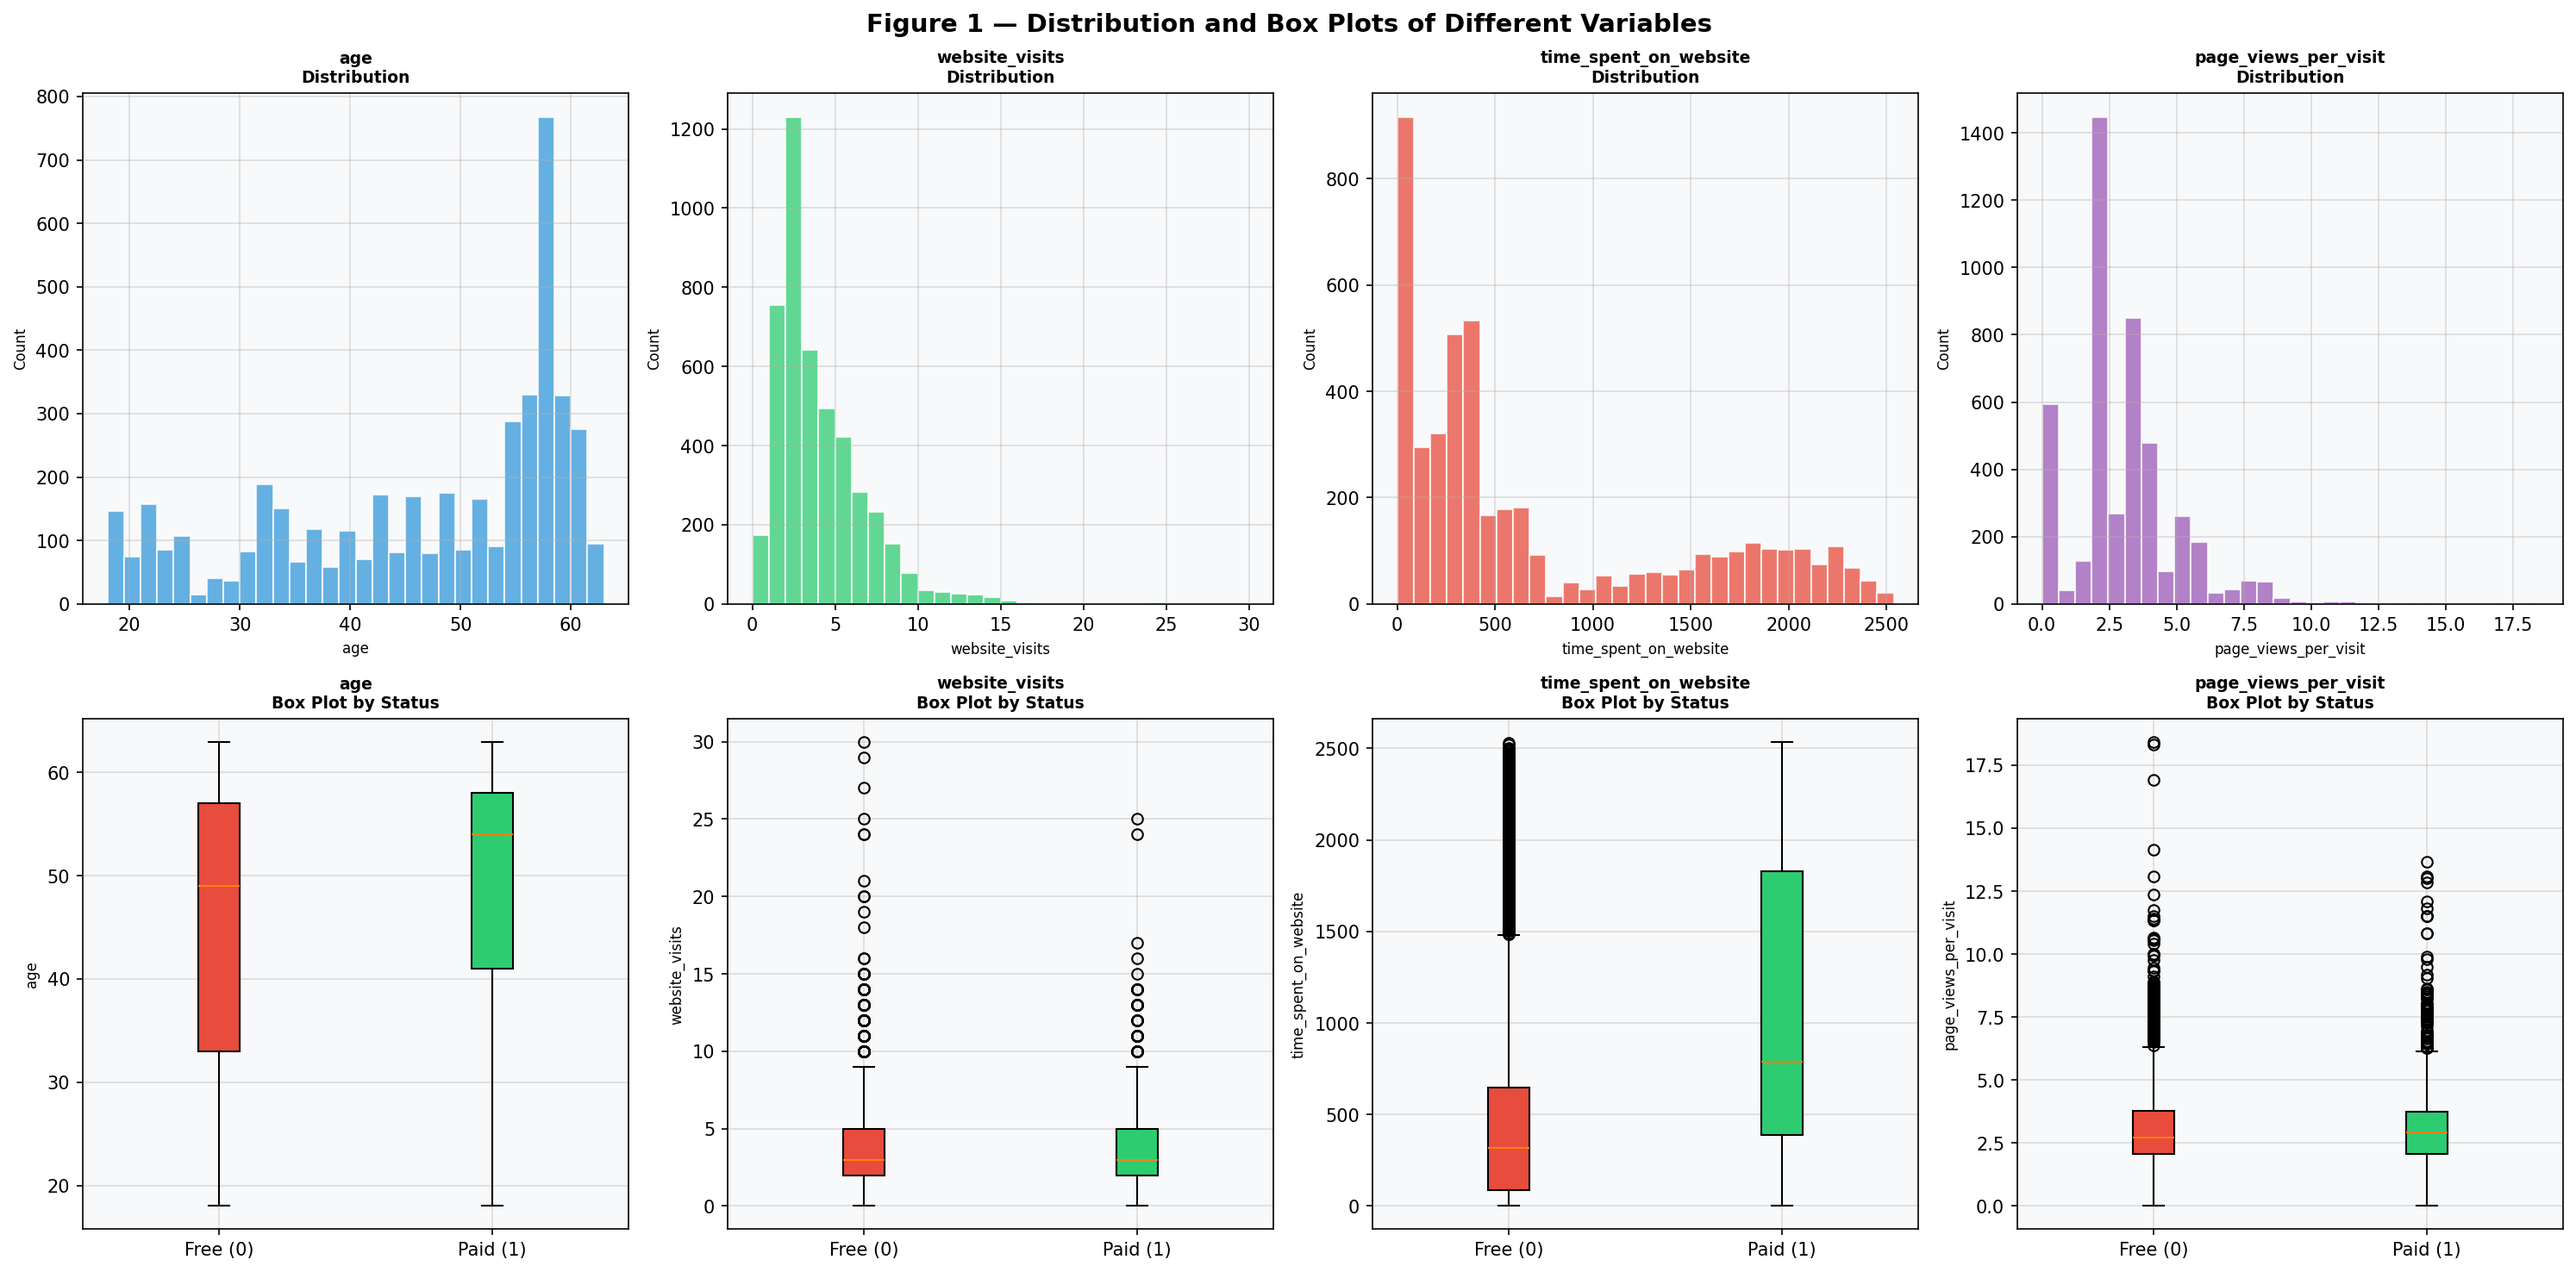
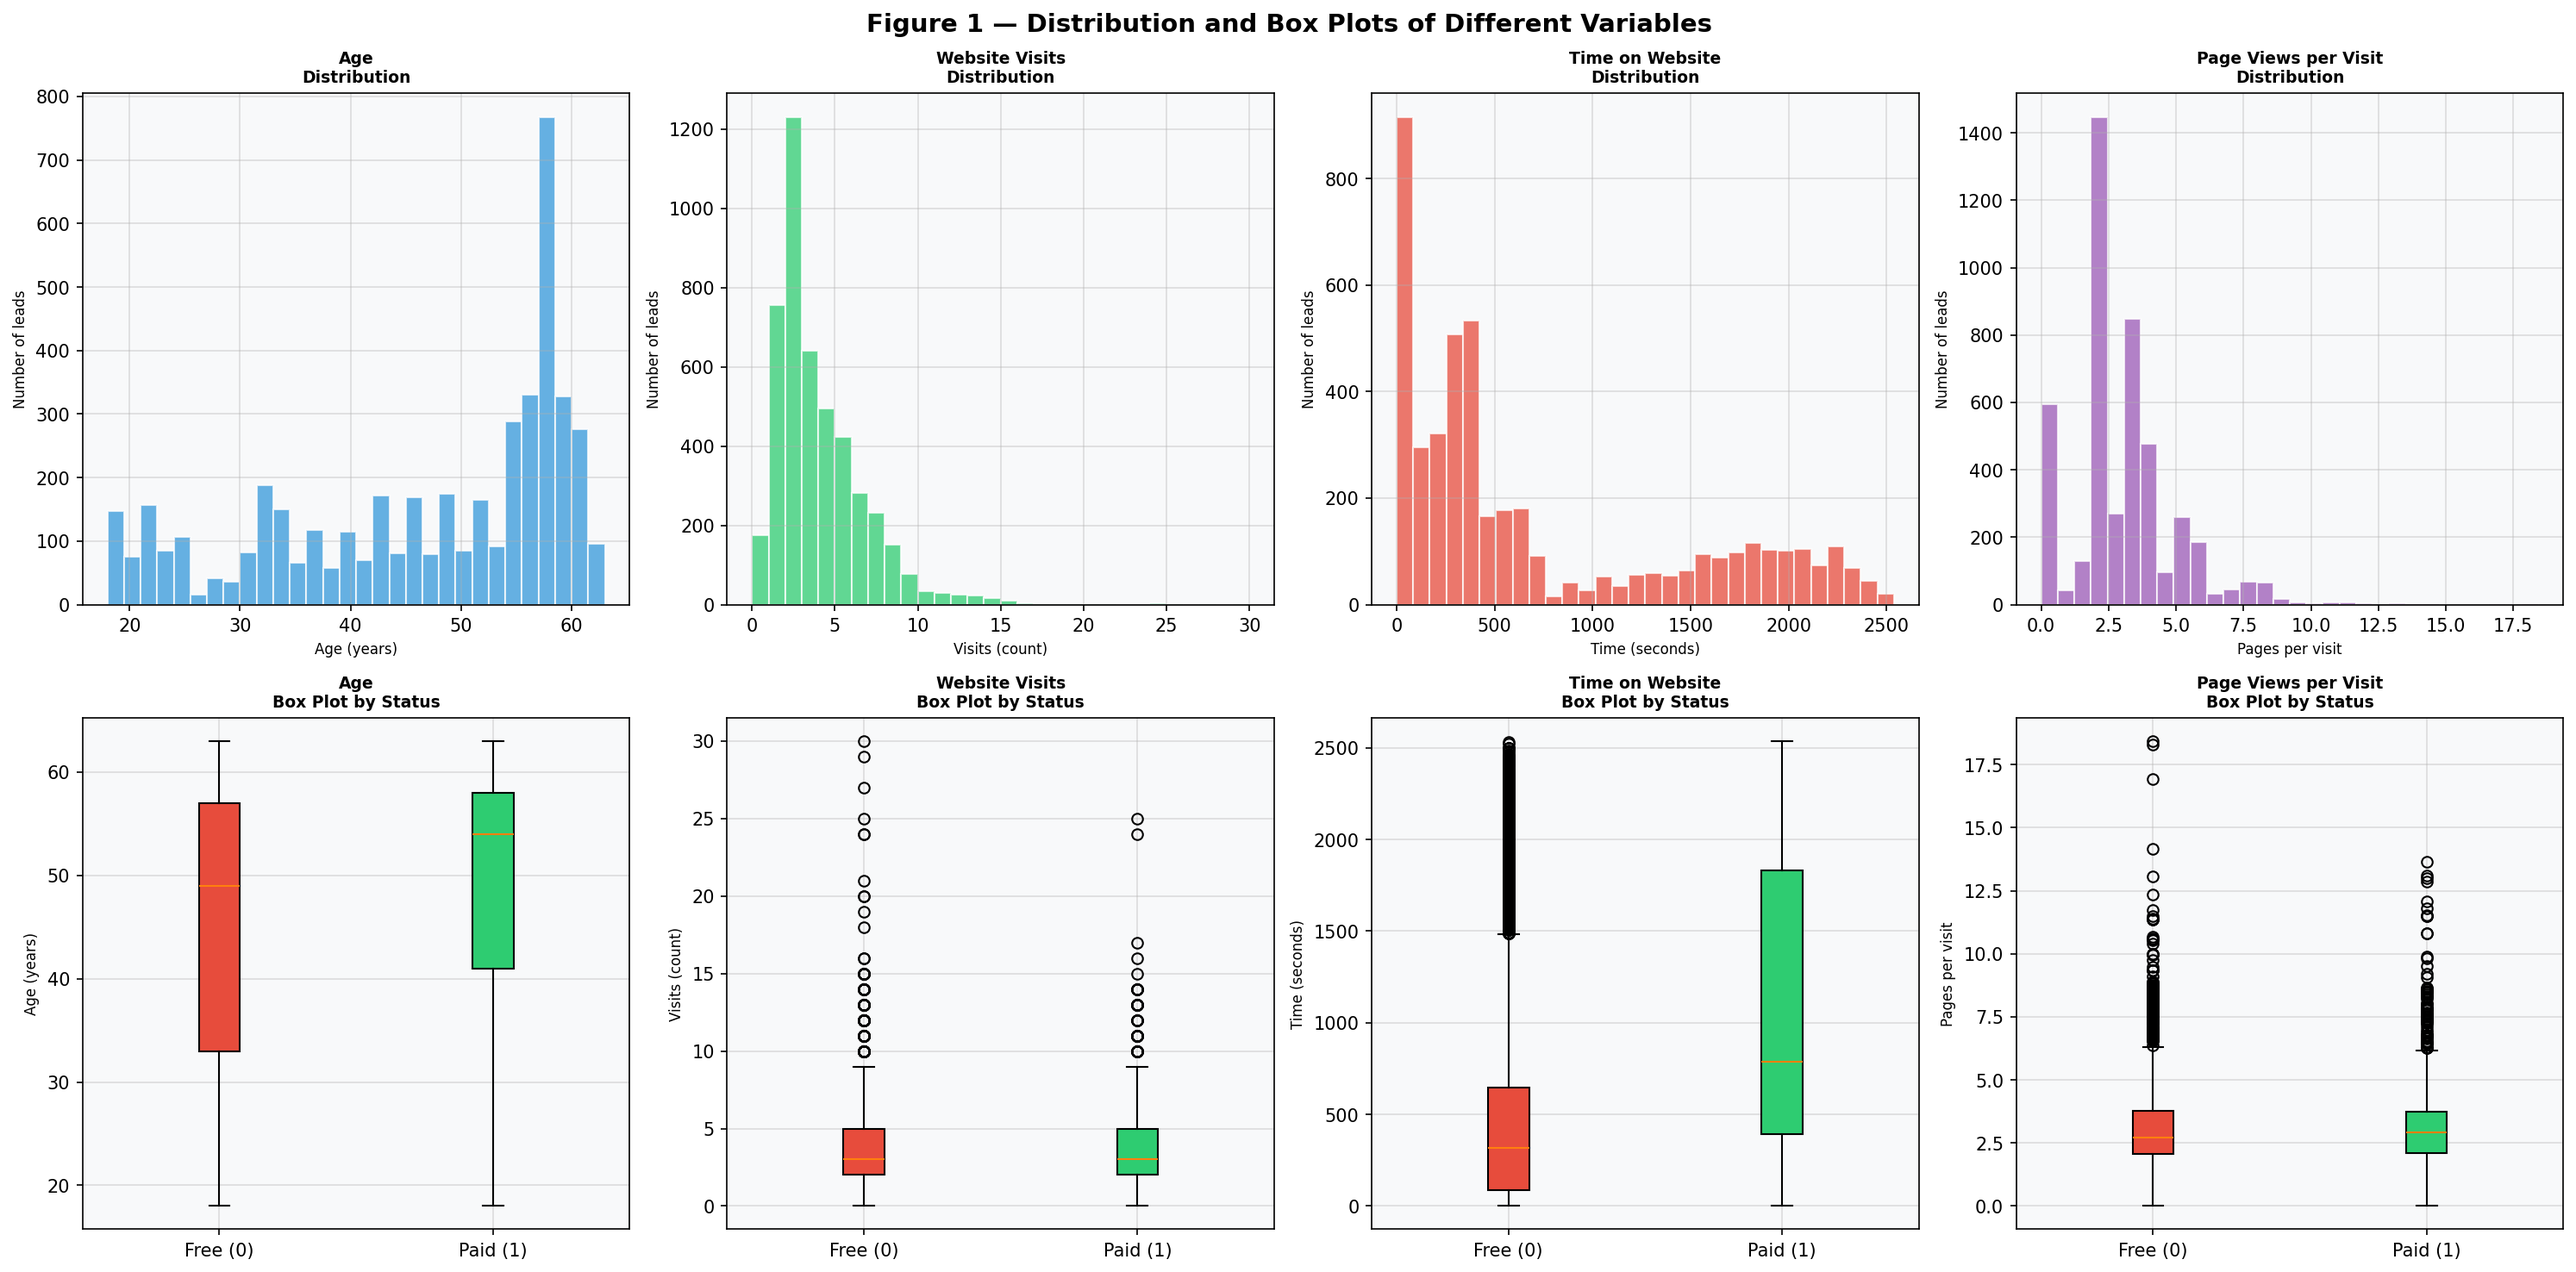
enhancments

diff --git a/model.py b/model.py
@@ -87,7 +87,7 @@ def build_score_row(label: str, y_true, y_pred, y_proba) -> dict:
 
 
 # ==============================================================
-# STEP 1 — DATA PREPROCESSING                        [paper §Solution]
+# STEP 1 — DATA PREPROCESSING
 # ==============================================================
 print_section("STEP 1 — DATA PREPROCESSING")
 
@@ -115,66 +115,95 @@ print(f"\n  Shape after preprocessing: {df.shape}")
 
 
 # ==============================================================
-# STEP 2 — EXPLORATORY DATA ANALYSIS                 [paper Figure 1]
+# STEP 2 — EXPLORATORY DATA ANALYSIS
 # ==============================================================
 print_section("STEP 2 — EXPLORATORY DATA ANALYSIS")
 
 total = len(raw_df)
 paid = int(raw_df["status"].sum())
 free = total - paid
-avg_cr = raw_df["status"].mean() * 100
+overall_conv_rate = raw_df["status"].mean() * 100
 
 print(f"\n  Free (0): {free:,}  ({free/total*100:.1f}%)")
 print(f"  Paid (1): {paid:,}  ({paid/total*100:.1f}%)")
+print(f"  Overall conversion rate: {overall_conv_rate:.1f}%")
+
+# Each column has a human-readable label and a unit suffix for printing.
+# Units: age=years, website_visits=visits, time=seconds, page_views=pages/visit
+COL_META = {
+    "age": ("Age", "yrs"),
+    "website_visits": ("Website visits", "visits"),
+    "time_spent_on_website": ("Time on website", "sec"),
+    "page_views_per_visit": ("Page views per visit", "pages"),
+}
 
 print(f"\n  Engagement averages — free vs paid:")
-print(f"  {'Metric':<30} {'Free':>8}  {'Paid':>8}  {'Diff%':>7}")
-print("  " + "-" * 57)
-for col in ["age", "website_visits", "time_spent_on_website", "page_views_per_visit"]:
+print(f"  {'Metric':<28} {'Unit':<8} {'Free':>8}  {'Paid':>8}  {'Diff%':>7}  Signal")
+print("  " + "-" * 72)
+for col, (label, unit) in COL_META.items():
     fa = raw_df[raw_df["status"] == 0][col].mean()
     pa = raw_df[raw_df["status"] == 1][col].mean()
     diff = ((pa - fa) / fa) * 100
-    print(f"  {col:<30} {fa:>8.2f}  {pa:>8.2f}  {diff:>+7.1f}%")
+    signal = "STRONG ←" if abs(diff) > 30 else (
+        "moderate" if abs(diff) > 10 else "weak")
+    print(f"  {label:<28} {unit:<8} {fa:>8.2f}  {pa:>8.2f}  {diff:>+7.1f}%  {signal}")
 
+# Conversion rate by first interaction channel
 print(f"\n  First interaction conversion rates:")
+print(f"  {'Channel':<20} {'Conv%':>7}  {'Converted':>10}  {'Total':>7}")
+print("  " + "-" * 48)
 fi = raw_df.groupby("first_interaction")["status"].agg(["sum", "count"])
 fi["rate"] = (fi["sum"] / fi["count"] * 100).round(1)
 for cat, row in fi.iterrows():
-    print(f"  {cat:<20} {row['rate']:>5.1f}%  (n={int(row['count'])})")
+    print(f"  {cat:<20} {row['rate']:>6.1f}%  "
+          f"{int(row['sum']):>10,}  {int(row['count']):>7,}")
 
+# Conversion rate by profile completion level
 print(f"\n  Profile completion conversion rates:")
+print(f"  {'Level':<20} {'Conv%':>7}  {'Converted':>10}  {'Total':>7}")
+print("  " + "-" * 48)
 pc = raw_df.groupby("profile_completed")["status"].agg(["sum", "count"])
 pc["rate"] = (pc["sum"] / pc["count"] * 100).round(1)
 for cat, row in pc.iterrows():
-    print(f"  {cat:<20} {row['rate']:>5.1f}%  (n={int(row['count'])})")
+    print(f"  {cat:<20} {row['rate']:>6.1f}%  "
+          f"{int(row['sum']):>10,}  {int(row['count']):>7,}")
 
-# Figure 1: distribution histograms + box plots
+# Figure 1: distribution histograms + box plots (paper Figure 1)
+# Human-readable axis labels and units for each chart column
+CHART_META = {
+    "age": ("Age", "Age (years)", "#3498db"),
+    "website_visits": ("Website Visits", "Visits (count)", "#2ecc71"),
+    "time_spent_on_website": ("Time on Website", "Time (seconds)", "#e74c3c"),
+    "page_views_per_visit": ("Page Views per Visit", "Pages per visit", "#9b59b6"),
+}
+
 fig, axes = plt.subplots(2, 4, figsize=(20, 10))
 fig.suptitle("Figure 1 — Distribution and Box Plots of Different Variables",
              fontsize=14, fontweight="bold")
 
-plot_cols = ["age", "website_visits",
-             "time_spent_on_website", "page_views_per_visit"]
-colors = ["#3498db", "#2ecc71", "#e74c3c", "#9b59b6"]
+for i, (col, (title, axis_label, color)) in enumerate(CHART_META.items()):
 
-for i, (col, color) in enumerate(zip(plot_cols, colors)):
+    # Top row: histogram of the full column (all leads)
     axes[0, i].hist(raw_df[col], bins=30, color=color,
                     alpha=0.75, edgecolor="white")
-    axes[0, i].set_title(f"{col}\nDistribution", fontweight="bold", fontsize=9)
-    axes[0, i].set_xlabel(col, fontsize=8)
-    axes[0, i].set_ylabel("Count", fontsize=8)
+    axes[0, i].set_title(f"{title}\nDistribution",
+                         fontweight="bold", fontsize=9)
+    axes[0, i].set_xlabel(axis_label, fontsize=8)
+    axes[0, i].set_ylabel("Number of leads", fontsize=8)
 
+    # Bottom row: side-by-side box plots split by conversion status
+    # Two lists are passed — one per group — producing two boxes
     bp = axes[1, i].boxplot(
         [raw_df[raw_df["status"] == 0][col],
          raw_df[raw_df["status"] == 1][col]],
-        patch_artist=True,
+        patch_artist=True,               # required to fill boxes with color
         labels=["Free (0)", "Paid (1)"]
     )
-    bp["boxes"][0].set_facecolor("#e74c3c")
-    bp["boxes"][1].set_facecolor("#2ecc71")
-    axes[1, i].set_title(f"{col}\nBox Plot by Status",
+    bp["boxes"][0].set_facecolor("#e74c3c")   # free = red
+    bp["boxes"][1].set_facecolor("#2ecc71")   # paid = green
+    axes[1, i].set_title(f"{title}\nBox Plot by Status",
                          fontweight="bold", fontsize=9)
-    axes[1, i].set_ylabel(col, fontsize=8)
+    axes[1, i].set_ylabel(axis_label, fontsize=8)
 
 plt.tight_layout()
 plt.savefig("eda_charts.png", dpi=150, bbox_inches="tight")
@@ -301,7 +330,7 @@ grid_obj = GridSearchCV(
     rf_estimator_tuned,
     parameters,
     scoring=scorer,
-    cv=CV_FOLDS               # paper uses cv=5
+    cv=CV_FOLDS
 )
 grid_obj = grid_obj.fit(X_train, y_train)
 
